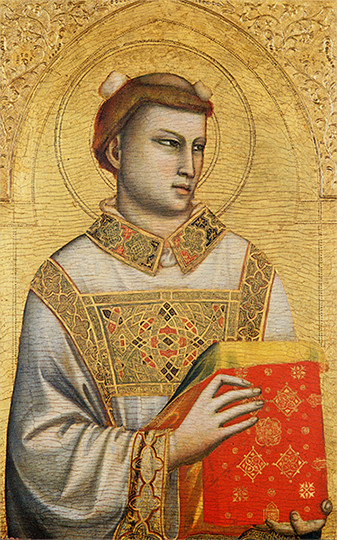
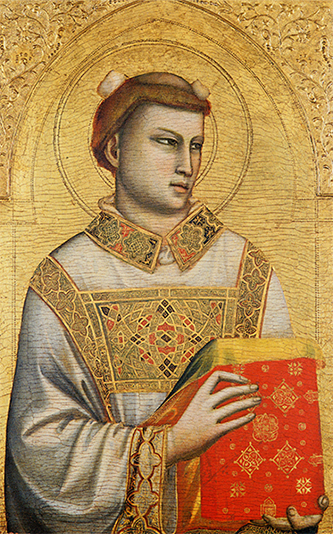
add pics

diff --git a/index.html b/index.html
@@ -262,219 +262,88 @@
       </div>
     </div>
   </div>
+
   <div class="modal clear hide modal1">
-    <div class="img left">
-      <img src="images/img01.png" alt="">
-    </div>
-    <div class="text right">
-      <div class="exit">
-        <img src="images/exit.png" alt="">
-      </div>
-      <h1>★圣使蒂芬</h1>
-      <h3>1320—1325年</h3>
-      <h3>意大利佛罗伦萨霍恩基金会藏</h3>
-      <p>这是早期文艺复兴著名画家乔托创作的多联画之一联。双手持书的圣史蒂芬，拥有一双类似东方人的细长眼睛，法衣胸前的金色方形装饰，与中国古代服饰上的“补子”异曲同工，种种图像细节体现了那个时代对于东方时尚的偏爱。</p>
-      <div class="voice">
-        <img src="images/voice.png" alt="">
-      </div>
+    <img class="full-img" src="images/圣史蒂芬.jpg" alt="">
+    <div class="exit">
+      <img src="images/exit.png" alt="">
     </div>
   </div>
 
   <div class="modal clear hide modal3">
-    <div class="img left">
-      <img src="images/img02.png" alt="">
-    </div>
-    <div class="text right">
-      <div class="exit">
-        <img src="images/exit.png" alt="">
-      </div>
-      <h1>★沐浴中的女人</h1>
-      <h3>16世纪末</h3>
-      <h3>意大利乌菲齐美术馆藏</h3>
-      <p>两位沐浴中的女性，摆出奇怪的姿态，她们在干什么？红色的帷幕衬托出她们白皙的肌肤和曼妙的表情，她们会不会想到在远隔千万里的东方，也有一对仪态万方的姐妹，用她们美丽的眼睛诉说着什么？(左下角)的中国和大都尽显繁华。中国式海船的踪迹从大都附近海域延伸到非洲南端，与几内亚湾的欧洲海船相呼应，在迪亚士绕过好望角30年前，预示了葡萄牙人继续南下的使命。</p>
-      <div class="voice">
-        <img src="images/voice.png" alt="">
-      </div>
+    <img class="full-img" src="images/沐浴中的女人.jpg" alt="">
+    <div class="exit">
+      <img src="images/exit.png" alt="">
     </div>
   </div>
 
   <div class="modal clear hide modal4">
-    <div class="img left">
-      <img src="images/img03.png" alt="">
-    </div>
-    <div class="text right">
-      <div class="exit">
-        <img src="images/exit.png" alt="">
-      </div>
-      <h1>★圣母加冕祭坛画</h1>
-      <h3>1450—1460年</h3>
-      <h3>意大利锡耶纳国家美术馆藏</h3>
-      <p>这件祭坛三联画由15世纪锡耶纳画家萨诺.皮埃特罗所绘，表现了耶稣为圣母加冕的场景。画中的圣母、耶稣和圣奥古斯丁皆着华丽的丝绸服装。14世纪东方的丝绸流入欧洲后风靡一时，如同中国凤凰由东向西的旅行，翩然飘落在圣母的衣袍和背景的红色帷幔上。(左下角)的中国和大都尽显繁华。中国式海船的踪迹从大都附近海域延伸到非洲南端，与几内亚湾的欧洲海船相呼应，在迪亚士绕过好望角30年前，预示了葡萄牙人继续南下的使命。</p>
-      <div class="voice">
-        <img src="images/voice.png" alt="">
-      </div>
+    <img class="full-img" src="images/圣母加冕.jpg" alt="">
+    <div class="exit">
+      <img src="images/exit.png" alt="">
     </div>
   </div>
 
   <div class="modal clear hide modal5">
-    <div class="img left">
-      <img src="images/img04.png" alt="">
-    </div>
-    <div class="text right">
-      <div class="exit">
-        <img src="images/exit.png" alt="">
-      </div>
-      <h1>★弗拉·毛罗世界地图</h1>
-      <h3>复制品（原作绘制于1459年）</h3>
-      <h3>威尼斯马尔西亚纳国家图书馆藏</h3>
-      <p>这幅地图描绘了当时所知世界上数千个地理位置，靠近伊甸园(左下角)的中国和大都尽显繁华。中国式海船的踪迹从大都附近海域延伸到非洲南端，与几内亚湾的欧洲海船相呼应，在迪亚士绕过好望角30年前，预示了葡萄牙人继续南下的使命。</p>
-      <div class="voice">
-        <img src="images/voice.png" alt="">
-      </div>
+    <img class="full-img" src="images/弗拉·毛罗世界地图.jpg" alt="">
+    <div class="exit">
+      <img src="images/exit.png" alt="">
     </div>
   </div>
 
   <div class="modal clear hide modal6">
-    <div class="img left">
-      <img src="images/img05.png" alt="">
-    </div>
-    <div class="text right">
-      <div class="exit">
-        <img src="images/exit.png" alt="">
-      </div>
-      <h1>★新会木美人</h1>
-      <h3>明代（1368―1644）</h3>
-      <h3>新会博物馆藏</h3>
-      <p>两块木门板上的美女像，虽然胸前隐约可见汉式襟衣，但高耸的发髻、立体的五官，以及传情达意的眉目，均透露出迥异于中国传统仕女的西方特点，与16世纪末枫丹白露画派笔下的欧洲女性尤为相像，她们为什么会几乎同时出现在欧亚大陆两端？(左下角)的中国和大都尽显繁华。中国式海船的踪迹从大都附近海域延伸到非洲南端，与几内亚湾的欧洲海船相呼应，在迪亚士绕过好望角30年前，预示了葡萄牙人继续南下的使命。</p>
-      <div class="voice">
-        <img src="images/voice.png" alt="">
-      </div>
+    <img class="full-img" src="images/木美人.jpg" alt="">
+    <div class="exit">
+      <img src="images/exit.png" alt="">
     </div>
   </div>
 
   <div class="modal clear hide modal7">
-    <div class="img left">
-      <img src="images/img06.png" alt="">
-    </div>
-    <div class="text right">
-      <div class="exit">
-        <img src="images/exit.png" alt="">
-      </div>
-      <h1>★耕稼图</h1>
-      <h3>南宋（1127－1279）</h3>
-      <h3>美国大都会博物馆藏</h3>
-      <p>描绘农民用连枷打谷脱粒等农事活动的《耕稼图》，意在彰显中国古代社会对农业生产的重视，而文艺复兴初期的壁画《好政府的功效》中也出现了如出一辙的图像，甚至都出现了琢食谷粒的鸡，这组画是巧合吗？(左下角)的中国和大都尽显繁华。中国式海船的踪迹从大都附近海域延伸到非洲南端，与几内亚湾的欧洲海船相呼应，在迪亚士绕过好望角30年前，预示了葡萄牙人继续南下的使命。</p>
-      <div class="voice">
-        <img src="images/voice.png" alt="">
-      </div>
+    <img class="full-img" src="images/耕织图.jpg" alt="">
+    <div class="exit">
+      <img src="images/exit.png" alt="">
     </div>
   </div>
 
   <div class="modal clear hide modal8">
-    <div class="img left">
-      <img src="images/img10.png" alt="">
-    </div>
-    <div class="text right">
-      <div class="exit">
-        <img src="images/exit.png" alt="">
-      </div>
-      <h1>★庞贝壁画《花神芙罗拉》</h1>
-      <h3>1世纪</h3>
-      <h3>那不勒斯国家考古博物馆藏</h3>
-      <p>公元79年，维苏威火山爆发，庞贝城陷入深眠。直到18世纪，经考古挖掘才重见天日。城中，一间别墅的卧室墙壁上，身披轻薄丝绸的女子手捧花束，在盈盈绿意之中惬意地漫步。衣袂飘飘中已走过千年万里，第一次来到了真正的丝之国度——中国。(左下角)的中国和大都尽显繁华。中国式海船的踪迹从大都附近海域延伸到非洲南端，与几内亚湾的欧洲海船相呼应，在迪亚士绕过好望角30年前，预示了葡萄牙人继续南下的使命。</p>
-      <div class="voice">
-        <img src="images/voice.png" alt="">
-      </div>
+    <img class="full-img" src="images/庞贝壁画《花神》.jpg" alt="">
+    <div class="exit">
+      <img src="images/exit.png" alt="">
     </div>
   </div>
 
   <div class="modal clear hide modal9">
-    <div class="img left">
-      <img src="images/img07.png" alt="">
-    </div>
-    <div class="text right">
-      <div class="exit">
-        <img src="images/exit.png" alt="">
-      </div>
-      <h1>★金镶蓝宝石帽顶</h1>
-      <h3>元代（1271—1368）</h3>
-      <h3>湖北省博物馆藏</h3>
-      <p>帽顶是元明贵族阶层所戴帽笠之上的装饰物，此件帽顶是明代梁庄王墓出土的六件帽顶之一。来自海外的蓝宝石晶莹剔透，高耸于金镶宝石覆莲底座上，像一座微型金字塔，诉说着中外贸易中的一个篇章。</p>
-      <div class="voice">
-        <img src="images/voice.png" alt="">
-      </div>
+    <img class="full-img" src="images/宝石帽顶.jpg" alt="">
+    <div class="exit">
+      <img src="images/exit.png" alt="">
     </div>
   </div>
 
   <div class="modal clear hide modal10">
-    <div class="img left">
-      <img src="images/img12.png" alt="">
-    </div>
-    <div class="text right">
-      <div class="exit">
-        <img src="images/exit.png" alt="">
-      </div>
-      <h1>★卧鹿缠枝牡丹纹金鞍饰</h1>
-      <h3>1206—1408年</h3>
-      <h3>内蒙古博物院藏</h3>
-      <p>蒙元时期，马是蒙古人创造历史文化的主要功臣。“马背上的民族”对马深厚的情感，体现在装饰及美化马鞍上，形成了独具特色的马鞍艺术。此套金马鞍饰件，一组六件，纯金质地，纹饰均为捶揲而成，精美华丽，堪称绝品。</p>
-      <div class="voice">
-        <img src="images/voice.png" alt="">
-      </div>
+    <img class="full-img" src="images/卧鹿缠枝牡丹纹金鞍饰.jpg" alt="">
+    <div class="exit">
+      <img src="images/exit.png" alt="">
     </div>
   </div>
 
   <div class="modal clear hide modal11">
-    <div class="img left">
-      <img src="images/img09.png" alt="">
-    </div>
-    <div class="text right">
-      <div class="exit">
-        <img src="images/exit.png" alt="">
-      </div>
-      <h1>★马可波罗罐</h1>
-      <h3>元代（1271—1368）</h3>
-      <h3>意大利威尼斯圣马可教堂藏</h3>
-      <p>四系青白釉瓷罐，由蕉叶、缠枝花卉等组成四层纹饰，器形和装饰均与“南海一号”沉船中德化窑的青白釉印花罐极为相像。瓷罐可能辗转君士坦丁堡最终到达意大利威尼斯，但它与马可·波罗有何关系，何以被称为“马可波罗罐”？(左下角)的中国和大都尽显繁华。中国式海船的踪迹从大都附近海域延伸到非洲南端，与几内亚湾的欧洲海船相呼应，在迪亚士绕过好望角30年前，预示了葡萄牙人继续南下的使命。</p>
-      <div class="voice">
-        <img src="images/voice.png" alt="">
-      </div>
+    <img class="full-img" src="images/马可波罗罐.jpg" alt="">
+    <div class="exit">
+      <img src="images/exit.png" alt="">
     </div>
   </div>
 
   <div class="modal clear hide modal12">
-    <div class="img left">
-      <img src="images/img08.png" alt="">
-    </div>
-    <div class="text right">
-      <div class="exit">
-        <img src="images/exit.png" alt="">
-      </div>
-      <h1>★马可·波罗的遗嘱</h1>
-      <h3>1323 年</h3>
-      <h3>意大利马尔恰那国家图书馆藏</h3>
-      <p>这份马可·波罗的遗嘱，记录了对自己“百万身家”的安排，缴纳税款、捐赠教会、免除他人的借债，以及对自己妻女、鞑靼（蒙古）仆人彼得的安排。马可·波罗到底是什么样的人？是否到过中国？遗嘱为此提供了线索。(左下角)的中国和大都尽显繁华。中国式海船的踪迹从大都附近海域延伸到非洲南端，与几内亚湾的欧洲海船相呼应，在迪亚士绕过好望角30年前，预示了葡萄牙人继续南下的使命。</p>
-      <div class="voice">
-        <img src="images/voice.png" alt="">
-      </div>
+    <img class="full-img" src="images/马可·波罗的遗嘱.jpg" alt="">
+    <div class="exit">
+      <img src="images/exit.png" alt="">
     </div>
   </div>
 
   <div class="modal clear hide modal13">
-    <div class="img left">
-      <img src="images/img11.png" alt="">
-    </div>
-    <div class="text right">
-      <div class="exit">
-        <img src="images/exit.png" alt="">
-      </div>
-      <h1>★美第奇软瓷罐</h1>
-      <h3>1568年</h3>
-      <h3>意大利那不勒斯马提纳公爵博物馆藏</h3>
-      <p>神秘的东方瓷器是如何制作的？这件带有穹顶符号与字母“F”的软瓷罐代表着美第奇家族的骄傲。“凸字形”口沿，犹如弯曲蛇身般的把手，蓝色缠枝莲纹与半透明玻璃釉层形成鲜明对比，呈现出仿青花软瓷的独特美感。(左下角)的中国和大都尽显繁华。中国式海船的踪迹从大都附近海域延伸到非洲南端，与几内亚湾的欧洲海船相呼应，在迪亚士绕过好望角30年前，预示了葡萄牙人继续南下的使命。</p>
-      <div class="voice">
-        <img src="images/voice.png" alt="">
-      </div>
+    <img class="full-img" src="images/软瓷杯.jpg" alt="">
+    <div class="exit">
+      <img src="images/exit.png" alt="">
     </div>
   </div>
 </body>

diff --git a/css/index.css b/css/index.css
@@ -22,6 +22,17 @@
   box-sizing: border-box;
   padding: 20px;
 }
+.modal .full-img{
+  width: 100%;
+  height: 100%;
+}
+.modal .exit{
+  cursor:pointer;
+  position: absolute;
+  top: 10px;
+  right: -40px;
+  width: 96px;
+}
 .modal .text .exit{
   text-align: right;
   cursor:pointer;

diff --git a/js/index.js b/js/index.js
@@ -29,7 +29,7 @@ $(function(){
 
   var modelExit = $('.exit')
   modelExit.click(function(){
-    $(this).parent().parent().hide()
+    $(this).parent().hide()
   })
 
   var item = $('.main .item')
